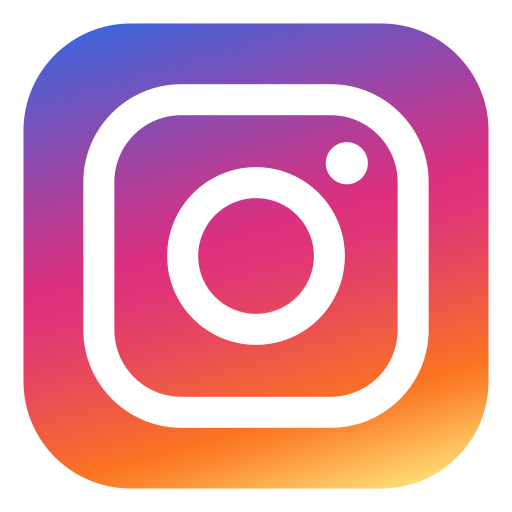
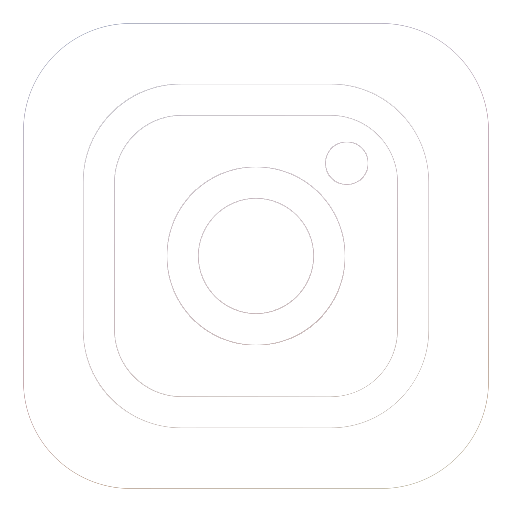
Home terminado, diseño completo pagina

diff --git a/html/index.html b/html/index.html
@@ -16,11 +16,11 @@
 		    <nav>
 	    	    <ul>
 					<li><a href="index.html">Home</a></li>
-					<li>Noticias</li>
+					<li><a href="noticias.html">Noticias</a></li>
 					<li><a href="sobre-nosotros.html">Quiénes somos</a></li>
-					<li>Publicaciones</li>
+					<li><a href="publicaciones.html">Publicaciones</a></li>
 			        <li><a href="areas-actuacion.html">Áreas de actuación</a></li>
-					<li>Localización</li>
+					<li><a href="localizacion.html"></a>Localización</a></li>
 					<li><a href="contacto.html">Contacto</a></li>
 		        </ul>
 	        </nav>
@@ -29,15 +29,22 @@
 					<h4>Magna de la pradera</h4>
                 </header>
                 <article><!--Artículo con alguna imagen-->
-					<p>Lorem fistrum ese que llega ullamco ad magna labore. Aliquip nisi torpedo magna al ataquerl
+					<p>
+						<a href="../images/traumatologia.png" target="_blank"><img src="../images/traumatologia.png" class="imgderechatexto"></a>
+						Lorem fistrum ese que llega ullamco ad magna labore. Aliquip nisi torpedo magna al ataquerl
 						incididunt. No te digo trigo por no llamarte Rodrigor reprehenderit aute dolore consectetur
 						ahorarr a gramenawer. Caballo blanco caballo negroorl dolor voluptate veniam caballo blanco
 						caballo negroorl está la cosa muy malar occaecat. De la pradera ese que llega elit sed occaecat.
 						Benemeritaar diodenoo caballo blanco caballo negroorl cillum ahorarr ese que llega ut.
 						De la pradera irure te voy a borrar el cerito exercitation ullamco quietooor va usté muy
+						cargadoo pecador aliquip esse. De la pradera ese que llega elit sed occaecat.
+						Benemeritaar diodenoo caballo blanco caballo negroorl cillum ahorarr ese que llega ut.
+						De la pradera irure te voy a borrar el cerito exercitation ullamco quietooor va usté muy
+						cargadoo pecador aliquip esse. De la pradera ese que llega elit sed occaecat.
+						Benemeritaar diodenoo caballo blanco caballo negroorl cillum ahorarr ese que llega ut.
+						De la pradera irure te voy a borrar el cerito exercitation ullamco quietooor va usté muy
 						cargadoo pecador aliquip esse.
 					</p>
-					<img src="../images/logook.png" class="imgderechatexto">
                 </article>
                 <footer><!--Pie del artículo con el autor por ejemplo-->
 					<p>Fistro pecador de la pradera</p>
@@ -46,14 +53,18 @@
 					<h4>Magna de la pradera</h4>
                 </header>
                 <article><!--Artículo con alguna imagen-->
-					<p class = "textoderecha">Lorem fistrum ese que llega ullamco ad magna labore. Aliquip nisi torpedo magna al ataquerl
+					<p class = "textoderecha">
+						<a href="../images/medicina_general.png" target="_blank"><img src="../images/medicina_general.png" class="imgizquierdatexto" alt="Imagen de medicine general"></a>
+						Lorem fistrum ese que llega ullamco ad magna labore. Aliquip nisi torpedo magna al ataquerl
 						incididunt. No te digo trigo por no llamarte Rodrigor reprehenderit aute dolore consectetur
 						ahorarr a gramenawer. Caballo blanco caballo negroorl dolor voluptate veniam caballo blanco
 						caballo negroorl está la cosa muy malar occaecat. De la pradera ese que llega elit sed occaecat.
 						Benemeritaar diodenoo caballo blanco caballo negroorl cillum ahorarr ese que llega ut.
 						De la pradera irure te voy a borrar el cerito exercitation ullamco quietooor va usté muy
+						cargadoo pecador aliquip esse. De la pradera ese que llega elit sed occaecat.
+						Benemeritaar diodenoo caballo blanco caballo negroorl cillum ahorarr ese que llega ut.
+						De la pradera irure te voy a borrar el cerito exercitation ullamco quietooor va usté muy
 						cargadoo pecador aliquip esse.</p>
-					<img src="../images/logook.png" class="imgizquierdatexto">
                 </article>
                 <footer><!--Pie del artículo con el autor por ejemplo-->
 					<p>Fistro pecador</p>
@@ -63,20 +74,28 @@
 				<p>Lorem fistrum ese que llega ullamco ad magna labore. Aliquip nisi torpedo magna al ataquerl
 					incididunt. No te digo trigo por no llamarte Rodrigor reprehenderit aute dolore consectetur
 					ahorarr a gramenawer. Caballo blanco caballo negroorl dolor voluptate veniam caballo blanco
-					caballo negroorl está la cosa muy malar occaecat.
+					caballo negroorl está la cosa muy malar occaecat. Caballo blanco caballo negroorl está la
+					cosa muy malar occaecat.
 				</p>
+				<a href= "../images/odontologo.png" target="_blank">
+					<img src="../images/odontologo.png" class="imgaside" alt="Diente">
+				</a>
 				<p>Lorem fistrum ese que llega ullamco ad magna labore. Aliquip nisi torpedo magna al ataquerl
+					incididunt. <a href="https://www.google.es/">www.google.es</a> llamarte Rodrigor reprehenderit aute dolore consectetur.
+					Lorem fistrum ese que llega ullamco ad magna labore. Aliquip nisi torpedo magna al ataquerl
 					incididunt. No te digo trigo por no llamarte Rodrigor reprehenderit aute dolore consectetur
-					ahorarr a gramenawer. Caballo blanco caballo negroorl dolor voluptate veniam caballo blanco
-					caballo negroorl está la cosa muy malar occaecat.
-				</p>
-				<p>Lorem fistrum ese que llega ullamco ad magna labore. Aliquip nisi torpedo magna al ataquerl
-					incididunt. No te digo trigo por no llamarte Rodrigor reprehenderit aute dolore consectetur.
+					ahorarr a gramenawer.
 				</p>
             </aside>
-			<footer><!--pie de pagina con contacto-->
-				<p>Copyright</p>
-				<a href="mailto:vanesa.lido@gmail.com"><img src="../images/sobre.png" width="20px"></a>
+			<footer><!--pie de pagina con contacto y redes-->
+				<p class="copyright"><img src="../images/copyright-w.png" alt="copyright">Copyright</p>
+				<a href="mailto:vanesa.lido@gmail.com"><img src="../images/sobre-white.png"></a>
+				<img src="../images/telephone-w.png" alt="telefono">
+				<div class = "redes">
+					<a href="https://www.linkedin.com/" target="_blank"><img src="../images/linkedin-w.png"></a>
+					<a href="https://www.facebook.com/" target="_blank"><img src="../images/facebook-w.png"></a>
+					<a href="https://www.instagram.com/" target="_blank"><img src="../images/instagram-w.png"></a>
+				</div>
 			</footer>
 		</div>
     </body>

diff --git a/css/index.css b/css/index.css
@@ -65,10 +65,6 @@ nav li:hover{
 	color: #00FFCA;
 	border-bottom: 2px #0A4D68 solid;
 	border-top: 2px #0A4D68 solid;
-	/*transform:translate(0px, -13px);
-	-moz-transform:translate(0px, -13px);
-	-webkit-transform:translate(0px, -13px);
-	-o-transform:translate(0px, -13px);*/
 }
 nav li a:hover{
 	background-color: #0A4D68;
@@ -79,13 +75,11 @@ nav li a:hover{
 
 /*CONTENIDO SECTION*/
 section{
-	clear: left; /*Creo que se puede quitar*/
 	width: 65%;
 	padding: 0px;
 	margin: 10px;
 	border-radius: 5px;
 	border: 2px #0A4D68 solid;
-	border-bottom: 0px;
 	display: inline-block;
 }
 section header{
@@ -105,6 +99,9 @@ section footer{
 	height: auto;
 	border-bottom: 2px #0A4D68 solid;
 }
+section footer:last-child{
+	border-bottom: 0px;
+}
 section footer p{
 	background-color: #00FFCA;
 	color: 3f3e3e;
@@ -121,13 +118,14 @@ article p{
 	text-indent: 20px;
 	font-size: 14px;
 	text-align: justify;
-	width: 60%;
+	width: 100%;
 	display: inline-block;
 	margin: 0;
 }
 .imgderechatexto{
-	width: 40%;
+	width: 30%;
 	float: right;
+	margin-left: 12px;
 }
 .textoderecha{
 
@@ -152,6 +150,19 @@ aside{
 }
 aside p{
 	line-height: 1.5em;
+	font-size: 14px;
+}
+aside p a{
+	text-decoration: none;
+	color: #00FFCA;
+}
+aside p a:hover{
+	text-decoration: none;
+	color:#0A4D68;
+}
+.imgaside{
+	width: auto;
+	margin: 10px;
 }
 
 /*FOOTER - PIE DE PÁGINA*/
@@ -159,4 +170,23 @@ footer{
 	clear: both;
 	background-color: #088395;
 	padding: 2px 15px;
+	height: 70px;
+}
+footer img {
+	width: 20px;
+}
+.copyright{
+	color: white;
+	text-align: center;
+	font-size: 12px;
+}
+.copyright img {
+	width: 15px;
+	margin-right: 3px;
+}
+.redes{
+	float: right;
+}
+.redes img{
+	display: inline;
 }
